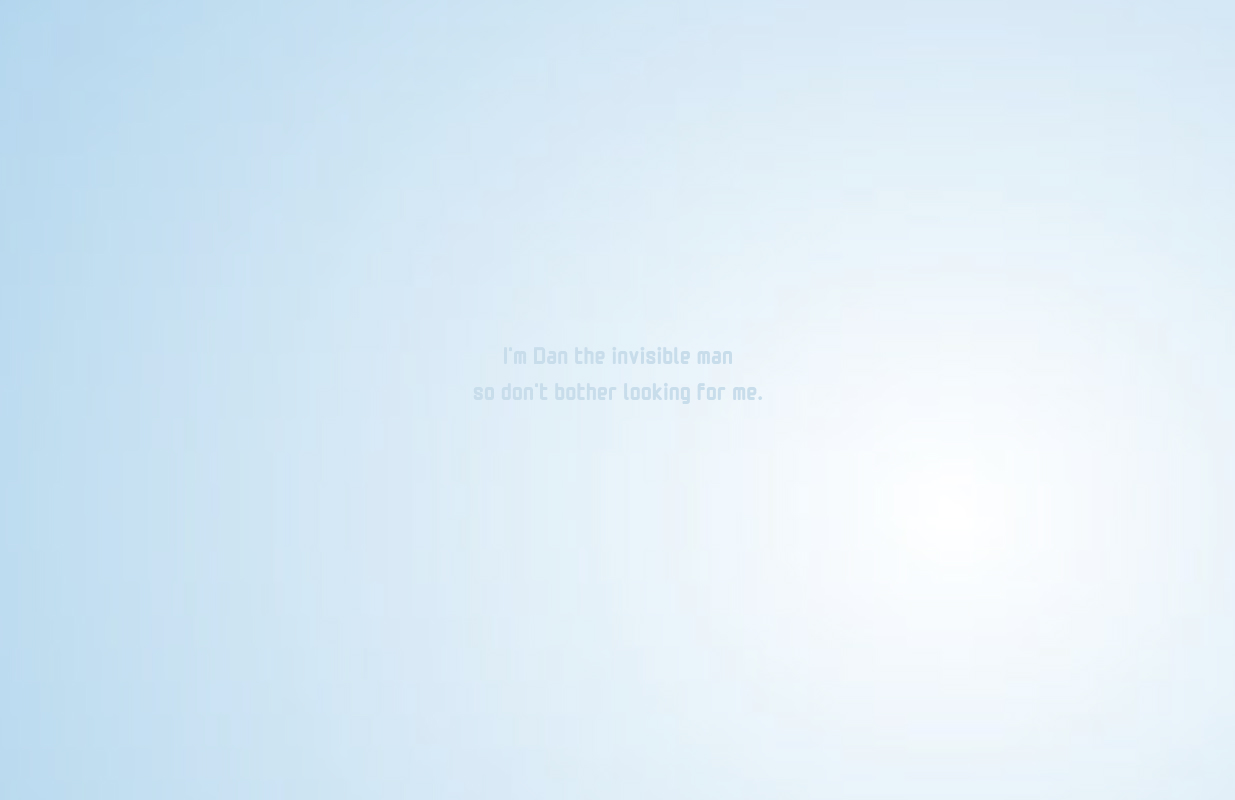
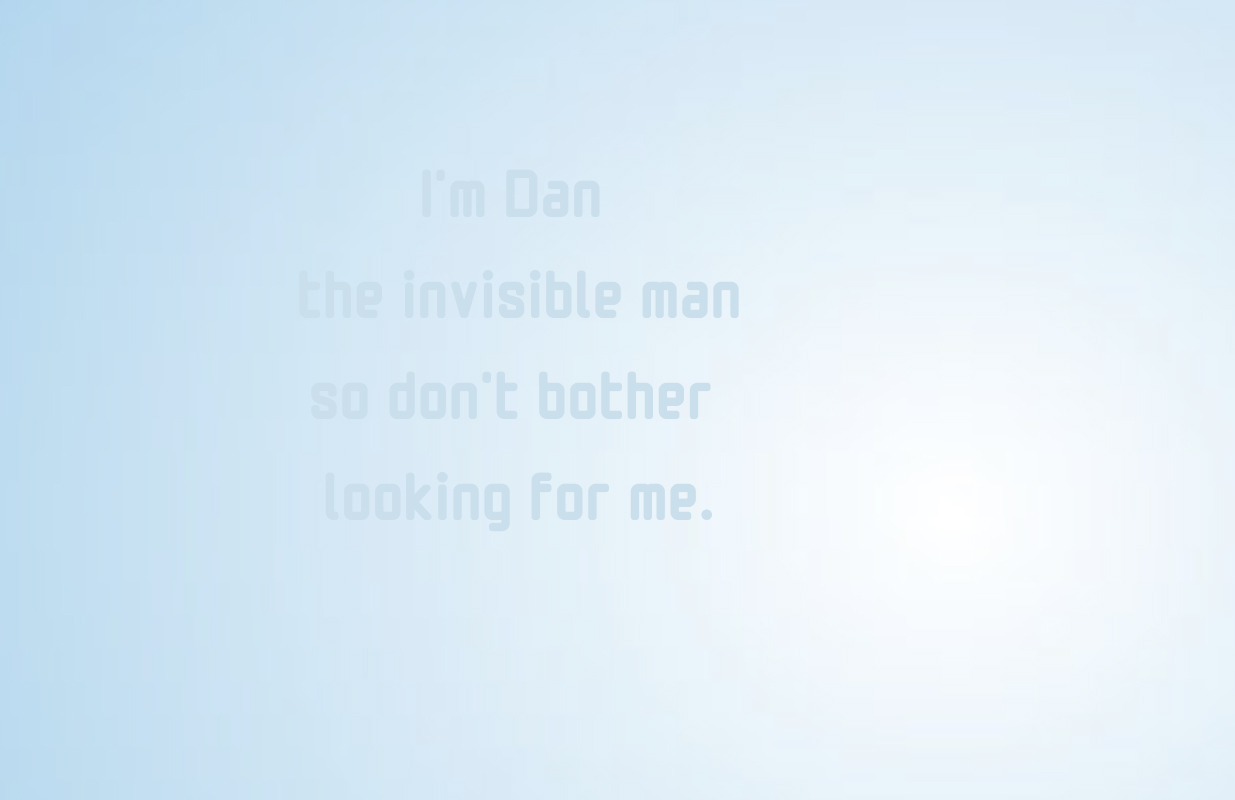
yuh

diff --git a/version1/blurtext.css b/version1/blurtext.css
@@ -1,41 +1,43 @@
-*,*:after,*:before{
-	-webkit-box-sizing: border-box;
-	-moz-box-sizing: border-box;
-	-ms-box-sizing: border-box;
-	box-sizing: border-box;
+*,
+*:after,
+*:before {
+  -webkit-box-sizing: border-box;
+  -moz-box-sizing: border-box;
+  -ms-box-sizing: border-box;
+  box-sizing: border-box;
 }
-body{
-	font-family: arial;
-	font-size: 16px;
-	margin: 0;
-	background: #fff;
+body {
+  font-family: arial;
+  font-size: 16px;
+  margin: 0;
+  background: #fff;
 }
-.mouse_area_wrap{
-	background:#7aa8b7;
-	width: 100%;
-	height: 100vh;
-	overflow: hidden;
-	position: relative;
+.mouse_area_wrap {
+  background: #7aa8b7;
+  width: 100%;
+  height: 100vh;
+  overflow: hidden;
+  position: relative;
 }
-.mouse_hover_area{
-	width: 100%;
-	height: 100vh;
-	background:url('images/dan.jpg') left top no-repeat;
-	background-attachment: fixed;
-	background-size: 1500px 800px;
-	opacity: 0.5;
-	filter: blur(5px)	
+.mouse_hover_area {
+  width: 100%;
+  height: 100vh;
+  background: url("images/dan.jpg") left top no-repeat;
+  background-attachment: fixed;
+  background-size: 1500px 800px;
+  opacity: 0.95;
+  filter: blur(50px);
 }
-.mouse{
-	width: 450px;
-	height: 450px;
-	border-radius: 50%;
-	background: url('images/dan.jpg') left top no-repeat;
-	background-attachment: fixed;
-	background-size: 1500px 800px;
-	position: absolute;
-	left: 50%;
-	top: 50%;
-	pointer-events: none;
-	border: 2px solid #7aa8b7;
+.mouse {
+  width: 500px;
+  height: 500px;
+  border-radius: 50%;
+  background: url("images/dan.jpg") left top no-repeat;
+  background-attachment: fixed;
+  background-size: 1500px 800px;
+  position: absolute;
+  left: 50%;
+  top: 50%;
+  pointer-events: none;
+  border: 2px solid #7aa8b7;
 }
